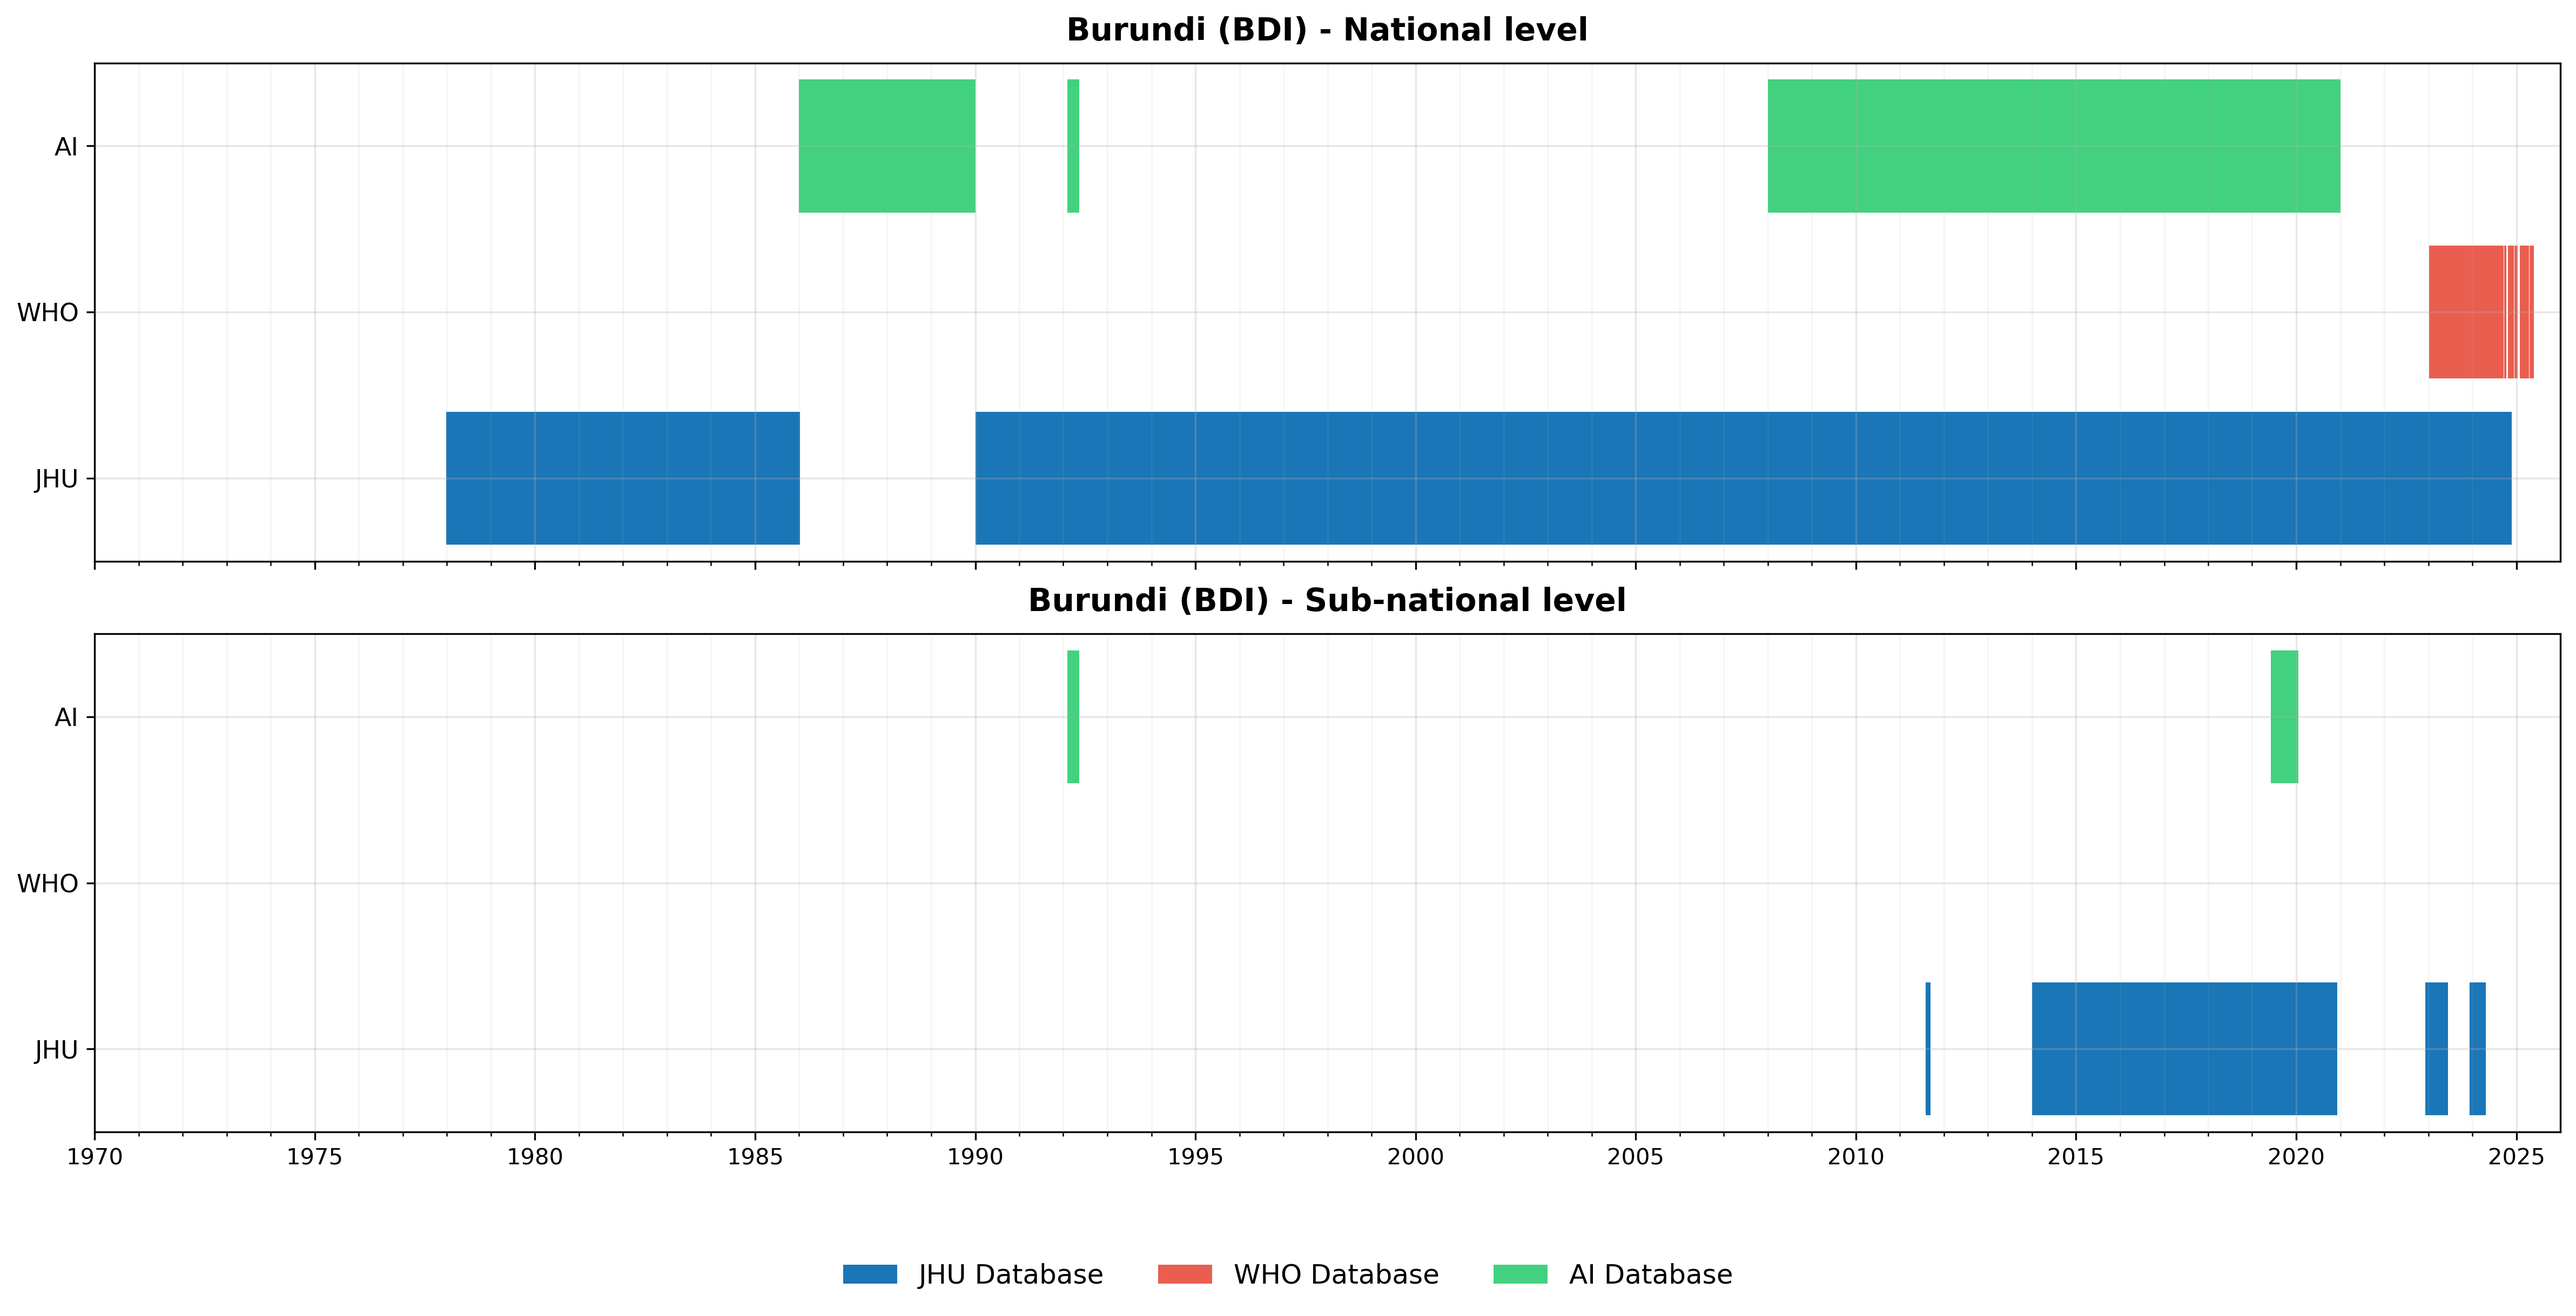
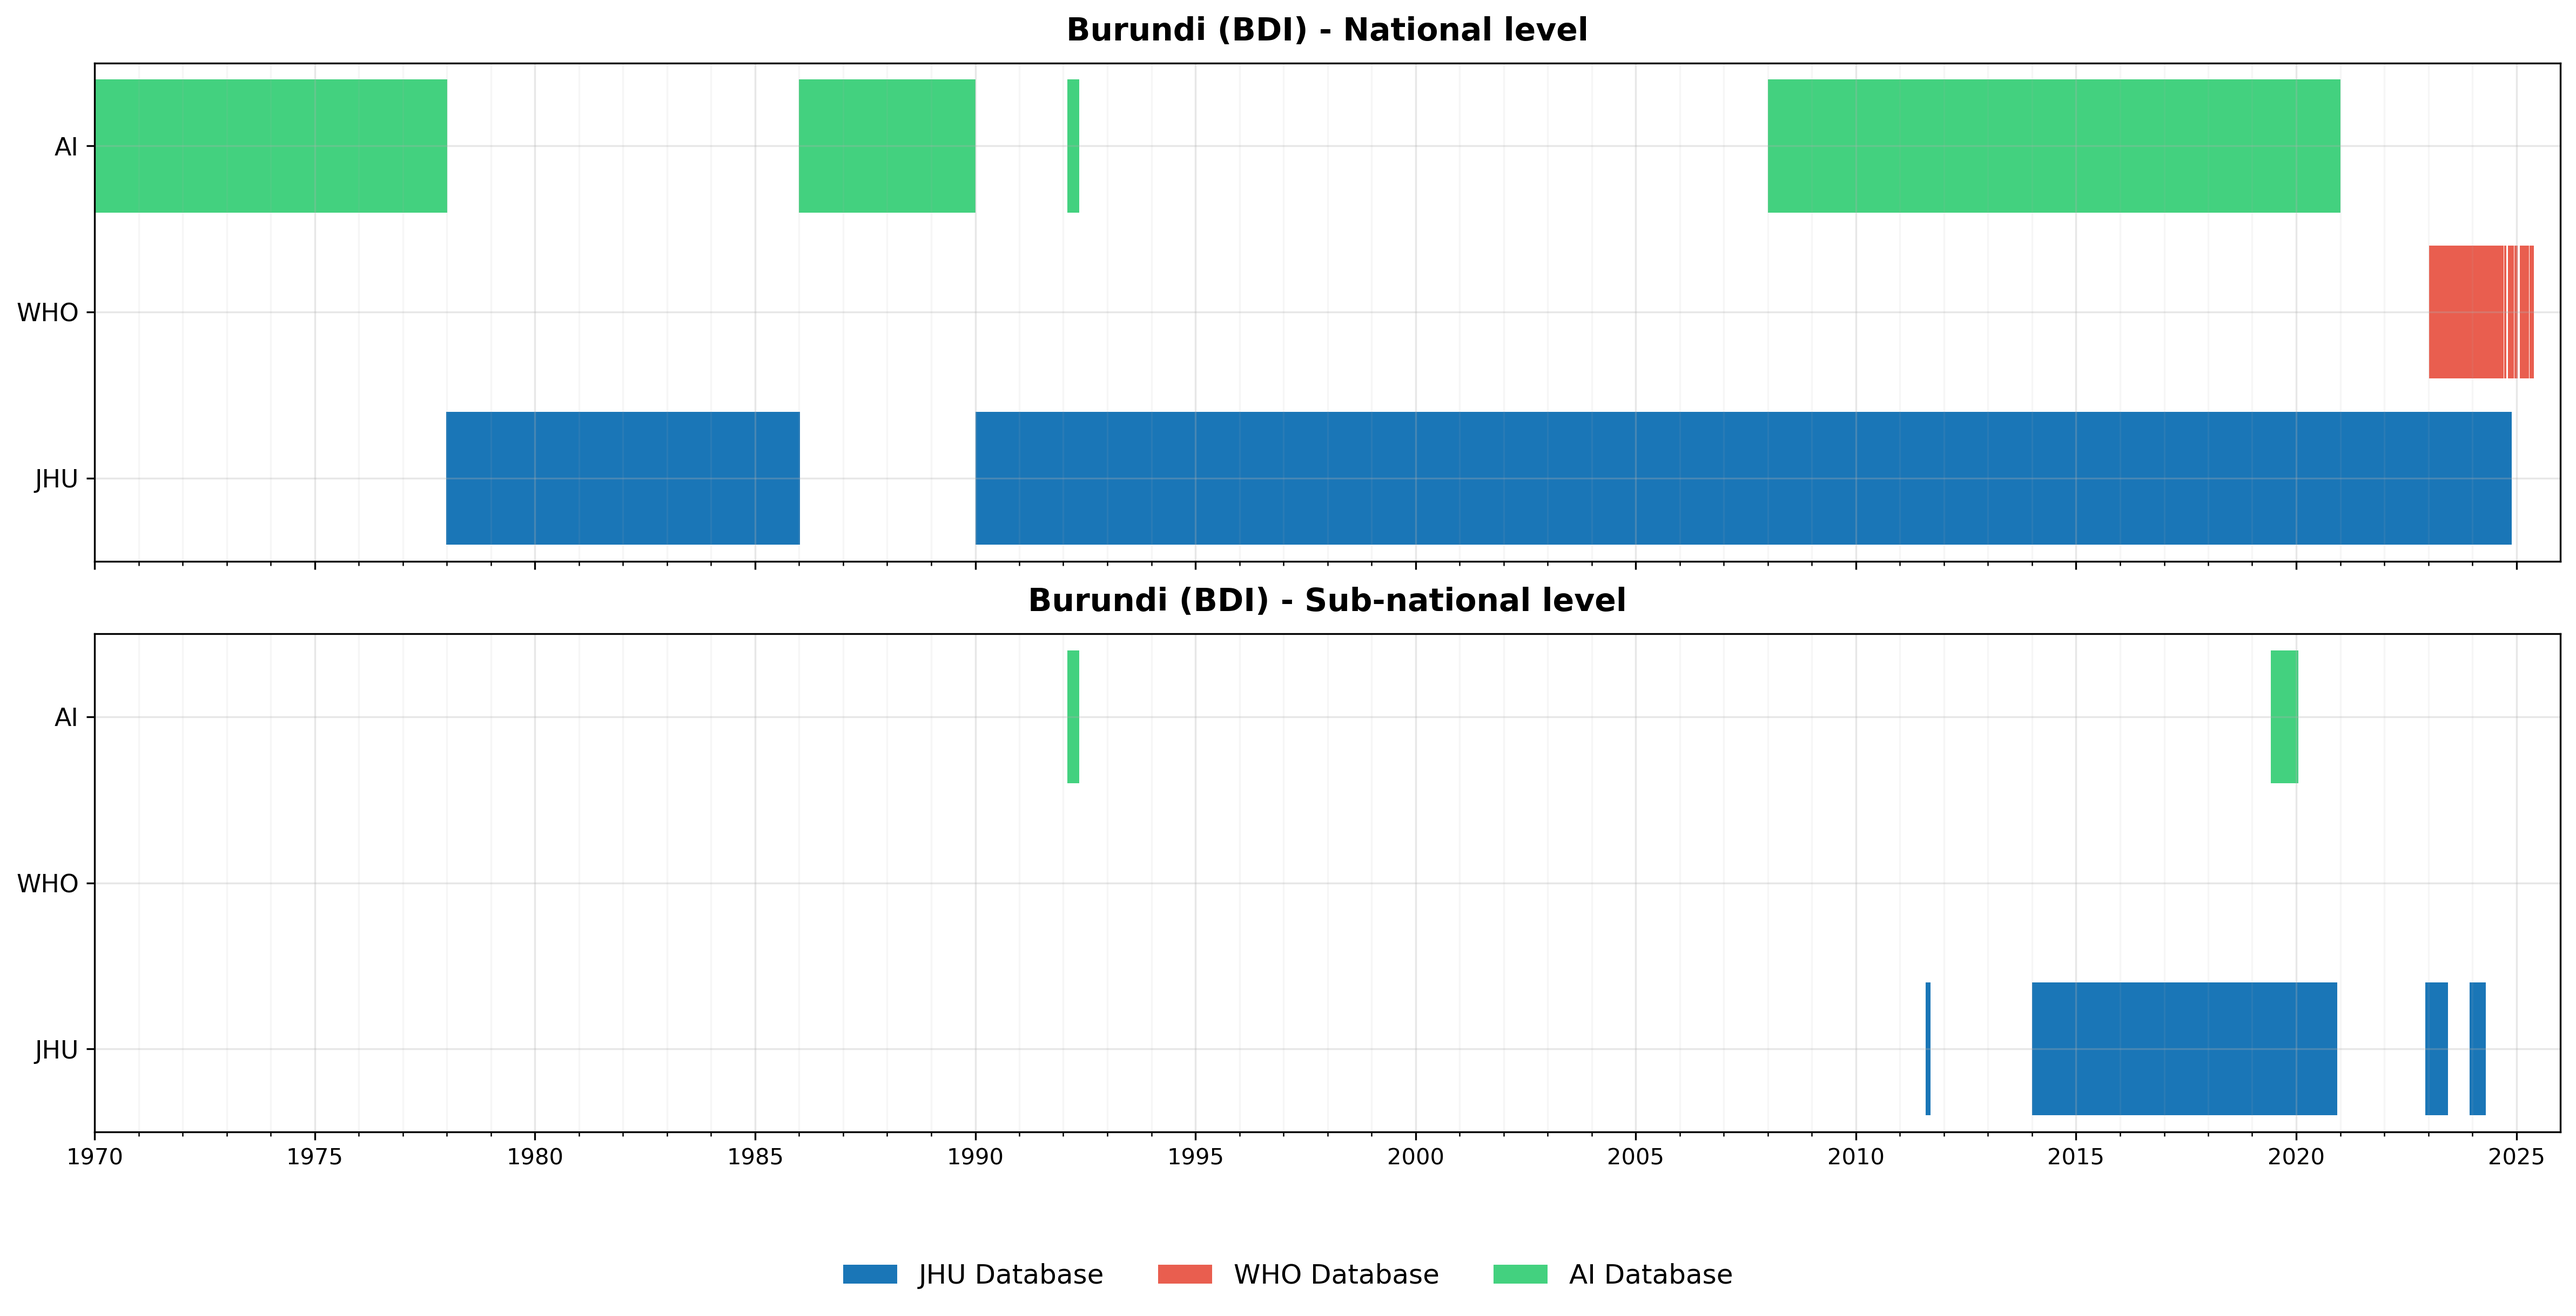
Auto-update dashboard data - 2025-08-05 19:04:17 - Generated with Claude Code

Changed region(s): [[0.0312, 0.0623, 0.1875, 0.187]]

diff --git a/dashboard/dashboard.html b/dashboard/dashboard.html
@@ -2002,10 +2002,10 @@
                 "country": "Burundi",
                 "iso": "BDI",
                 "status": "COMPLETED",
-                "datetime": "2025-08-05 19:02:03",
+                "datetime": "2025-08-05 19:04:00",
                 "sources": 4,
-                "observations": 9,
-                "date_range": "1977-2020",
+                "observations": 10,
+                "date_range": "1970-2020",
                 "priority": "HIGH",
                 "execution_time": 0,
                 "queries": 0,
